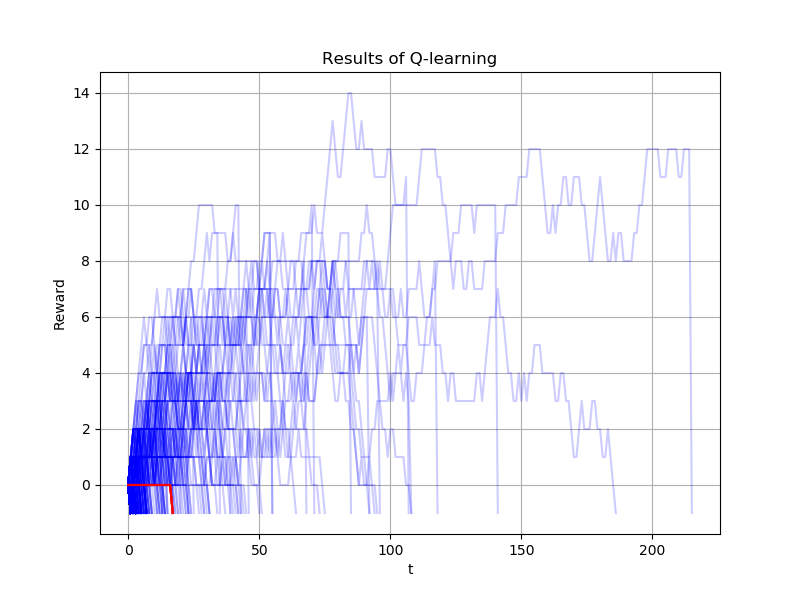
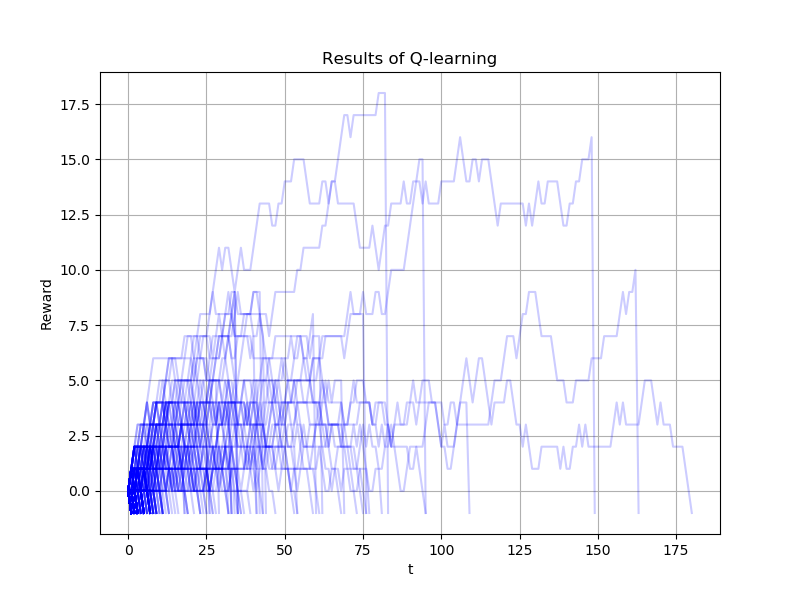
Remove broken optimal evaluation

diff --git a/Code/qlearning.py b/Code/qlearning.py
@@ -81,54 +81,7 @@ class QlearningRobot():
             if action == 0: self.y_left += 1
             elif action == 1: self.y_left -= 1
             elif action == 2: self.x_left += 1
-            else: self.x_left -= 1
-        
-    def choose_optimal_action(self):
-        # Store old coordinates (used later for updating Q-tables):
-        self.old_left_xy = [self.x_left, self.y_left]
-        self.old_right_xy = [self.x_right, self.y_right]
-
-        if self.y_left == 0 and self.y_right == 0:
-            # Both feet are on the floor, so lift one up:
-            action = np.argmin([
-                self.Q_left[self.x_left, self.y_left + 1],
-                self.Q_right[self.x_right, self.y_right + 1]
-            ])
-            # action = np.random.choice(2, p=probs)
-            print(action)
-            if action == 0: self.y_left += 1
-            else: self.y_right += 1
-        
-        elif self.y_left == 0:
-            # Left foot is on the floor, so move the right foot:
-            action = np.argmin([
-                self.Q_right[self.x_right, self.y_right + 1],
-                self.Q_right[self.x_right, self.y_right - 1],
-                self.Q_right[self.x_right + 1, self.y_right],
-                self.Q_right[self.x_right - 1, self.y_right],
-            ])
-            print(action)
-            # action = np.random.choice(4, p=probs)
-            if action == 0: self.y_right += 1
-            elif action == 1: self.y_right -= 1
-            elif action == 2: self.x_right += 1
-            else: self.x_right -= 1
-        
-        else:
-            # Right foot is on the floor, so move the left foot:
-            action = np.argmin([
-                self.Q_left[self.x_left, self.y_left + 1],
-                self.Q_left[self.x_left, self.y_left - 1],
-                self.Q_left[self.x_left + 1, self.y_left],
-                self.Q_left[self.x_left - 1, self.y_left],
-            ])
-            print(action)
-            # action = np.random.choice(4, p=probs)
-            if action == 0: self.y_left += 1
-            elif action == 1: self.y_left -= 1
-            elif action == 2: self.x_left += 1
-            else: self.x_left -= 1
-        
+            else: self.x_left -= 1        
     
     def reward_function(self):
         motor_distance_x = self.dx * (self.x_right - self.x_left)
@@ -176,17 +129,6 @@ class QlearningRobot():
                 if reward == -1: break
             plt.plot(reward_list, 'b', alpha=0.2)
         
-        for _ in range(n_evals):
-            self.reset_position()
-            reward_list = []
-            for _ in range(n_t_steps):
-                self.choose_optimal_action()
-                reward = self.reward_function()
-                reward_list.append(reward)
-                self.update_q_tables(alpha, gamma, reward)
-                if reward == -1: break
-            plt.plot(reward_list, 'r', alpha=0.6)
-
         plt.grid(True)
         plt.xlabel("t")
         plt.ylabel("Reward")
